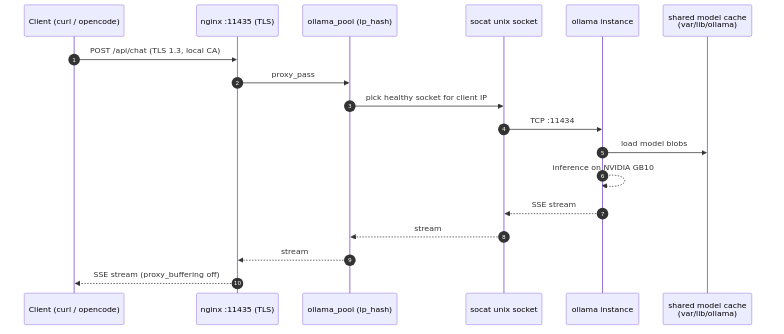
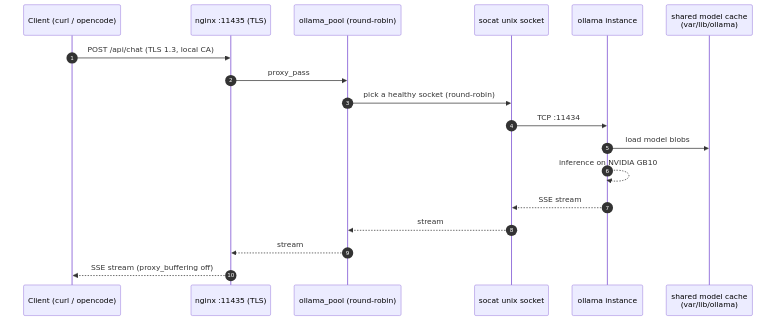
Remove sticky sessions (better scaling)

diff --git a/README.md b/README.md
@@ -2,8 +2,7 @@
 
 A self-hosted, TLS-only Ollama serving stack for a single GPU host (NVIDIA DGX
 Spark / GB10). It runs two Ollama instances behind an nginx reverse proxy with
-dynamic, health-checked upstreams and session stickiness, plus Open WebUI for a
-browser interface. Every path into the stack is HTTPS; nothing is published as
+dynamic, health-checked upstreams, plus Open WebUI for a browser interface. Every path into the stack is HTTPS; nothing is published as
 plain HTTP.
 
 ## Highlights
@@ -17,7 +16,8 @@ plain HTTP.
 - **Dynamic upstream pool** — `healthcheck.sh` probes each instance's socket
   every 5 s and regenerates the nginx upstream, reloading only on change. Failed
   instances are dropped from the pool automatically.
-- **Session stickiness** (`ip_hash`) so long conversations stay on one instance.
+- **Round-robin load balancing** — nginx spreads requests across the healthy
+  instances automatically.
 - **HTTPS-only entry points** on `:11435` (Ollama API) and `:11436` (Open WebUI),
   served by a self-signed local CA.
 - **Hardened containers** — non-root user (`1000:1000`), `no-new-privileges`,
@@ -44,8 +44,8 @@ plain HTTP.
 ![Ollama API request flow](docs/diagrams/request-flow.svg)
 
 A client calls `https://localhost:11435/v1`. nginx terminates TLS, selects a
-healthy socket for the client IP via `ip_hash`, and streams the response back
-with `proxy_buffering off` so SSE works end to end.
+healthy socket via round-robin, and streams the response back with
+`proxy_buffering off` so SSE works end to end.
 
 ### Request flow (Open WebUI)
 
@@ -121,7 +121,7 @@ Open the UI at <https://localhost:11436> (first-run: create the admin account).
 | `OLLAMA_CONTEXT_LENGTH=32768`        | compose `x-ollama-base`   | Context window for large models          |
 | `OLLAMA_NUM_PARALLEL=2`             | compose `x-ollama-base`   | Two parallel requests per model (2x context size per request) |
 | Number of instances (`1..2`)         | compose `services`        | Scale the pool (and `INSTANCES` in `healthcheck.sh`) |
-| `ip_hash` / `keepalive 32`           | generated `upstream.conf` | Stickiness + connection reuse            |
+| `keepalive 32`                       | generated `upstream.conf` | Connection reuse                          |
 | `OLLAMA_BASE_URL` / `WEBUI_URL`      | compose `webui`           | WebUI backend URL + public UI URL        |
 | Probe interval (`INTERVAL=5`)        | `nginx/healthcheck.sh`    | Health-check cadence                     |
 
